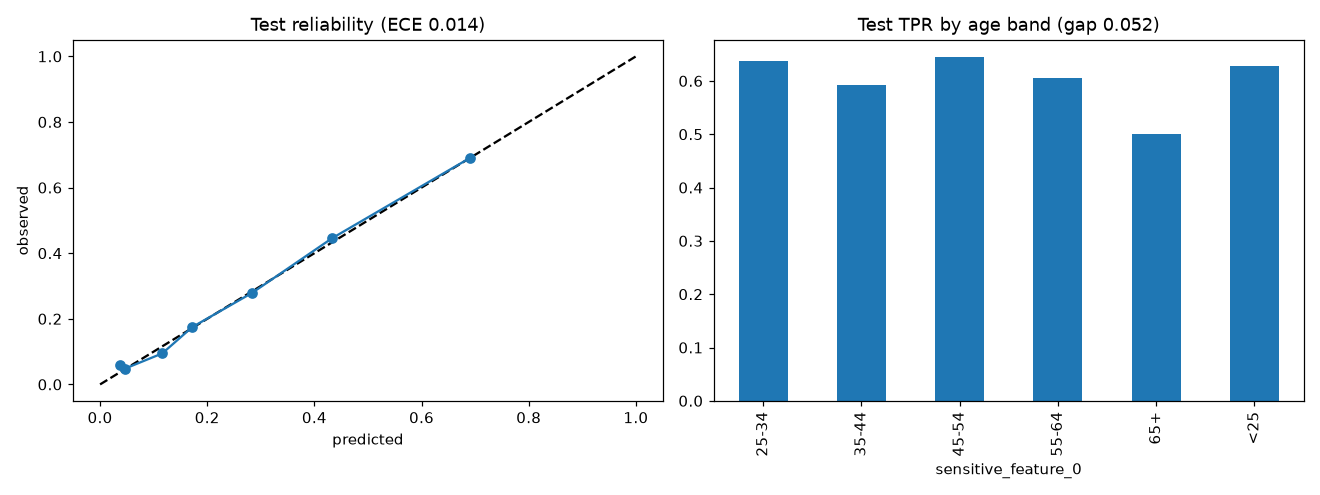
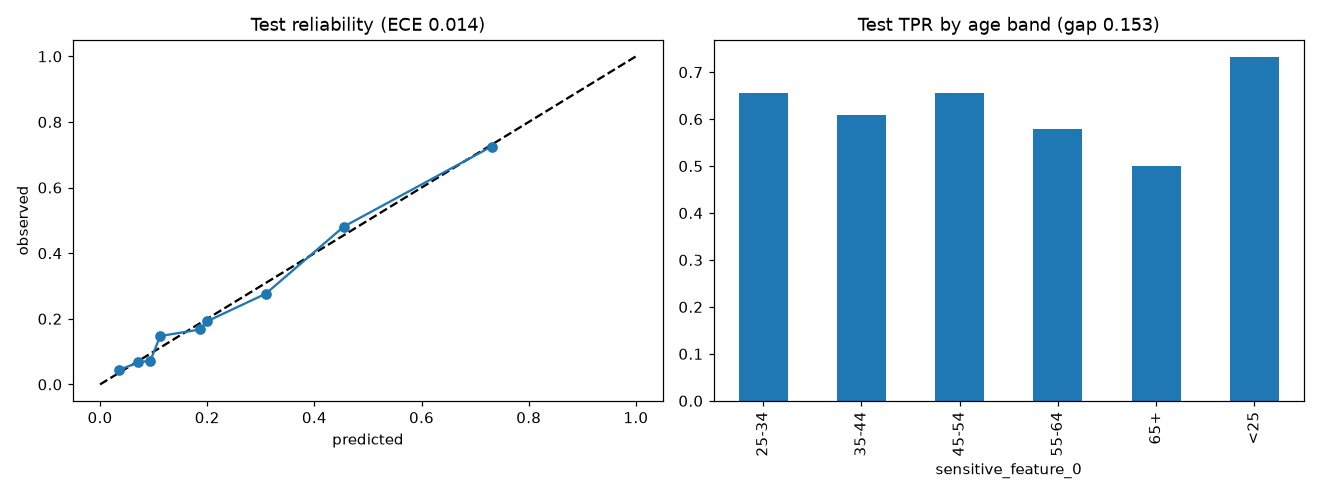
eval: one-time test evaluation of the deployed model (2c8471a0552e)
The only test-set result belonged to the superseded ThresholdOptimizer model
(ed30878f38dc). Its lock and results are kept under versioned names.

The frozen test split was regenerated (seed 42); all six split files match
SPLIT_CHECKSUMS.json byte-for-byte, so this is the same 4,500 rows.

Result (not retuned, test-once protocol):
  ROC-AUC 0.780 [0.762, 0.798]  pass (>= 0.75)
  ECE 0.014                     pass (<= 0.05)
  TPR gap 0.153                 FAIL (<= 0.05); unconstrained model 0.215
The validation gap (0.045) did not generalise: the <25 band is flagged
far more often (TPR 0.732 vs 0.579-0.657 elsewhere).

diff --git a/docs/decisions_log.md b/docs/decisions_log.md
@@ -26,3 +26,7 @@
 | 20 | 2026-10-27 | Monotone constraints: risk may only rise with repayment-status delays, worst delay, months late and mean status, and only fall with payment amounts and paid ratios. | Unconstrained model lowered risk for 22% of applicants when they became one month later; constraints cost no accuracy (CV AUC 0.7894 vs 0.7893). | No constraints. |
 | 21 | 2026-10-27 | Deployed policy is now ExponentiatedGradient (eps 0.01), selected by the existing rule because it passes the gate on held-out validation (TPR gap 0.0454). No age band needed at serving. | Supersedes #17: a reduction trained on train with an honest held-out gap is preferred over thresholds fitted on validation. | Per-band thresholds (val gap 0.0134, in-sample). |
 | 22 | 2026-10-28 | New Next.js frontend (`frontend/`) with Auth.js login; it calls FastAPI server-side only. | Production-grade UI with protected routes. | Keep the FastAPI static page (kept as fallback). |
+| 23 | 2026-11-23 | Scoring path computes the preprocessing once per request and shares it across the 4 live EG members, the fairness flag and SHAP; FeatureBuilder vectorised. | /score median was 315 ms (target 50 ms) because the same pandas preprocessing ran ~9 times per request. Now 37-42 ms over HTTP; outputs bit-identical (tests/test_model.py, tests/test_features.py). | Prune low-weight EG members (changes the model). |
+| 24 | 2026-11-23 | Test set evaluated once for the deployed model 2c8471a0552e (EG eps 0.01). Previous result kept as `reports/final_results_ed30878f38dc.json` / `final_test_ed30878f38dc.lock`. Test split regenerated with seed 42; all six split files matched SPLIT_CHECKSUMS.json byte-for-byte. | The only test result belonged to a superseded model (#19), so the deployed model had no unbiased estimate. Owner's decision to run it. Result: ROC-AUC 0.780, ECE 0.014 (pass); TPR gap 0.153 (FAIL, target 0.05; unconstrained 0.215). Not retuned. | Keep reporting the old model's test result. |
+| 25 | 2026-11-23 | CI workflow moved from `ci/ci.yml` to `.github/workflows/ci.yml`; Docker job builds a local tag and pushes only when Docker Hub secrets exist. | GitHub only runs workflows in `.github/workflows/`, so CI had never executed; with empty secrets the image tag was invalid. | - |
+| 26 | 2026-11-23 | MODEL_CARD, fairness policy decision, audits, EU AI Act pack, presentation outline and README aligned with the deployed EG policy and the new test result. | They still described ThresholdOptimizer / per-band thresholds and old latency and test figures. | - |
